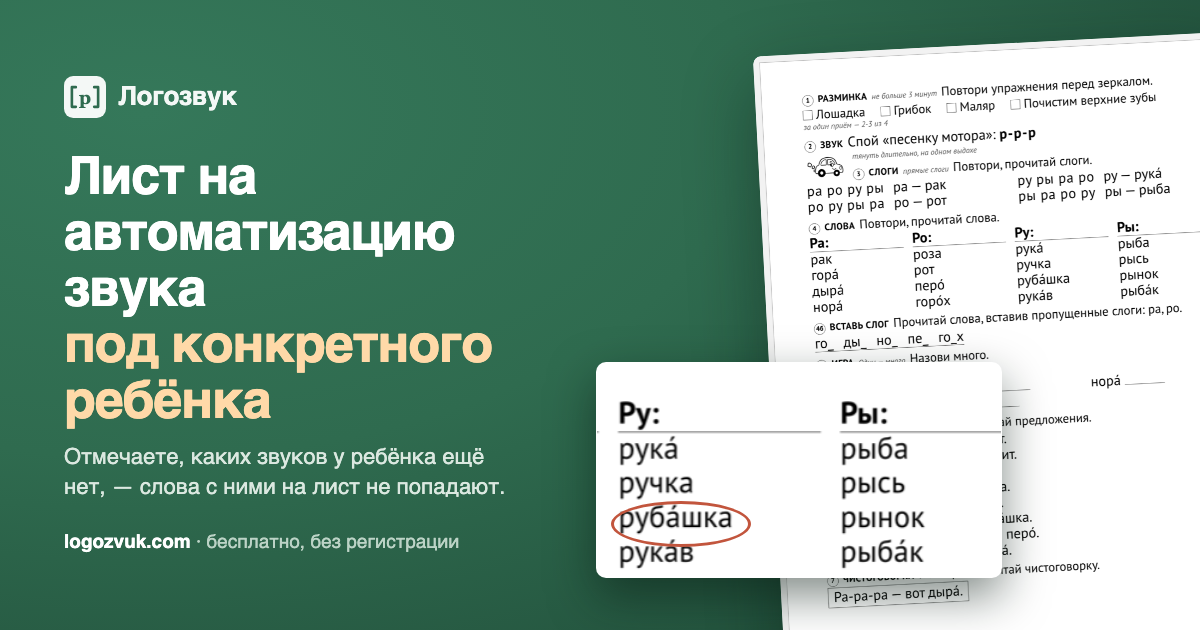
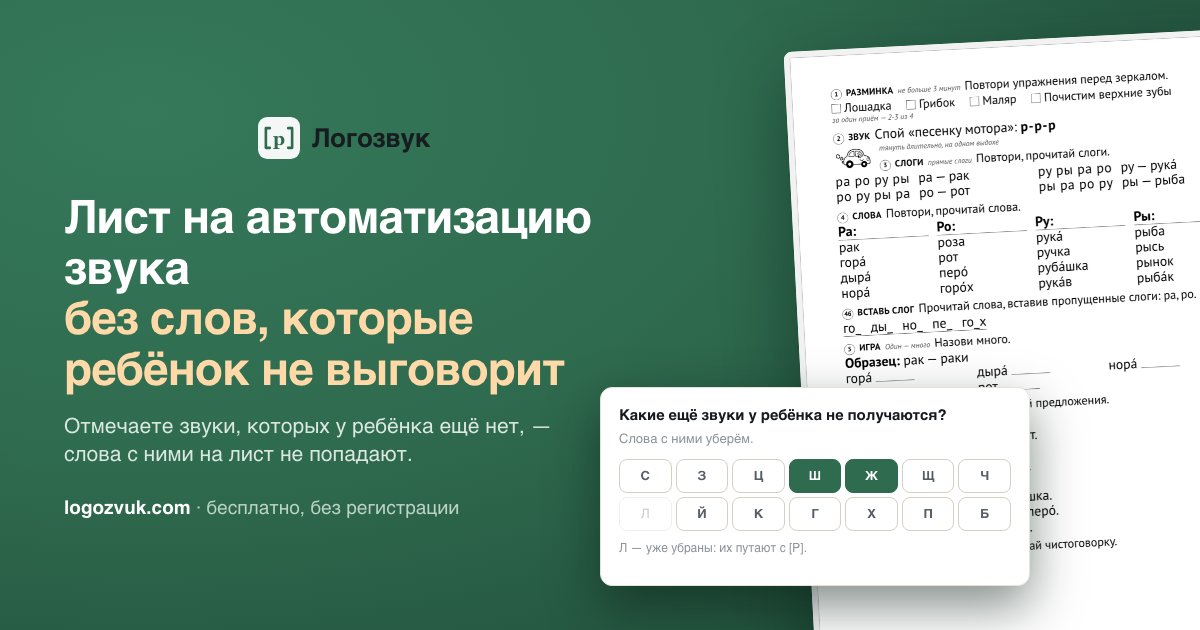
Баннер честнее: во врезке настоящая панель выбора звуков
Две правки по разбору автора.

Врезка была артефактом кадрирования: на листе четыре колонки слов, а я обрезал
до двух — вышла табличка, которой на бумаге не существует, «этого логопед
никогда не увидит». Теперь во врезке тот самый экран, который логопед и
нажимает: вопрос «Какие ещё звуки у ребёнка не получаются?», отмеченные [Ш] и
[Ж], погашенный [Л] с объяснением. Разметка и стили взяты из виджета (в баннер
подключён его же app.css), поэтому врезка не может разойтись с экраном.

Слоган «под конкретного ребёнка» обещал больше, чем инструмент делает: звучит
как персонализация вообще, а на деле это выбор звуков. Стало «без слов, которые
ребёнок не выговорит» плюс строка о том, что именно происходит.

diff --git a/research/site/anons/og-banner.html b/research/site/anons/og-banner.html
@@ -1,31 +1,33 @@
 <!doctype html><meta charset="utf-8">
+<link rel="stylesheet" href="/Users/igor/PycharmProjects/logoped-generator/web/app.css">
 <style>
-  body{margin:0;width:1200px;height:630px;overflow:hidden;position:relative;
-       background:radial-gradient(120% 130% at 12% 18%, #35785a 0%, #2f6b4f 42%, #1d4634 100%);
-       font:16px/1.4 -apple-system,"Segoe UI",Roboto,sans-serif;color:#fff}
-  .left{position:absolute;left:64px;top:0;bottom:0;width:520px;display:flex;flex-direction:column;justify-content:center}
-  .brand{display:flex;align-items:center;gap:12px;margin-bottom:30px;opacity:.95}
+  html,body{margin:0;width:1200px;height:630px;overflow:hidden}
+  body{position:relative;font:16px/1.4 -apple-system,"Segoe UI",Roboto,sans-serif;color:#fff;
+       background:radial-gradient(120% 130% at 12% 18%, #35785a 0%, #2f6b4f 42%, #1d4634 100%)}
+  .left{position:absolute;left:64px;top:0;bottom:0;width:560px;display:flex;flex-direction:column;justify-content:center}
+  .brand{display:flex;align-items:center;gap:12px;margin-bottom:28px;opacity:.95}
   .brand span{font-weight:700;font-size:26px;letter-spacing:-.01em}
-  h1{font-size:52px;line-height:1.08;margin:0 0 14px;letter-spacing:-.02em;font-weight:800}
+  h1{font-size:46px;line-height:1.1;margin:0 0 16px;letter-spacing:-.02em;font-weight:800}
   h1 em{display:block;font-style:normal;color:#ffd9a8}
-  p{font-size:22px;line-height:1.35;margin:0 0 26px;color:#dbe8e0;max-width:460px}
+  .sub{font-size:21px;line-height:1.35;margin:0 0 26px;color:#dbe8e0;max-width:490px}
   .foot{font-size:19px;color:#bcd3c6}
   .foot b{color:#fff}
 
-  /* лист — настоящий снимок, с тенью и лёгким наклоном */
-  .paper{position:absolute;right:-40px;top:44px;width:470px;height:664px;background:#fff;
+  .paper{position:absolute;right:-52px;top:40px;width:452px;height:640px;background:#fff;
          border-radius:8px;overflow:hidden;transform:rotate(-3deg);
          box-shadow:0 26px 70px rgba(8,25,18,.42)}
-  .paper img{position:absolute;left:0;top:0;width:470px}
+  .paper img{position:absolute;left:0;top:0;width:452px}
 
-  /* вырезка: увеличенный кусок того же листа с обведённым словом */
-  /* вырезка: колонка «Ру» того же листа, крупно, с обведённым словом */
-  .zoom{position:absolute;left:596px;bottom:52px;width:404px;height:214px;background:#fff;
-        border-radius:10px;overflow:hidden;box-shadow:0 18px 46px rgba(8,25,18,.5);
-        border:1px solid rgba(255,255,255,.55)}
-  .zoom img{position:absolute;width:1017px;left:-524px;top:-360px}
-  .ring{position:absolute;border:3px solid #c2553d;border-radius:50%;
-        left:14px;top:138px;width:134px;height:40px}
+  /* врезка — НАСТОЯЩИЙ элемент экрана: выбор звуков, которых у ребёнка нет.
+     Разметка и стили те же, что в виджете (подключён его app.css). */
+  .card{position:absolute;left:600px;bottom:44px;width:430px;background:#fff;
+        border-radius:12px;padding:16px 18px 18px;color:var(--ink);
+        box-shadow:0 20px 50px rgba(8,25,18,.5)}
+  .card h2{font-size:15px;margin:0 0 4px}
+  .card .hint{margin:0 0 10px;font-size:13px;color:var(--ink-3)}
+  .card .chips{grid-template-columns:repeat(7,1fr);gap:4px}
+  .card .chip{padding:7px 0;font-size:13px}
+  .card .chips-note{margin-top:8px !important}
 </style>
 
 <div class="left">
@@ -37,13 +39,23 @@
     </svg>
     <span>Логозвук</span>
   </div>
-  <h1>Лист на автоматизацию звука<em>под конкретного ребёнка</em></h1>
-  <p>Отмечаете, каких звуков у ребёнка ещё нет, — слова с ними на лист не попадают.</p>
+  <h1>Лист на автоматизацию звука<em>без слов, которые ребёнок не выговорит</em></h1>
+  <p class="sub">Отмечаете звуки, которых у ребёнка ещё нет, — слова с ними на лист не попадают.</p>
   <div class="foot"><b>logozvuk.com</b> · бесплатно, без регистрации</div>
 </div>
 
 <div class="paper"><img src="/Users/igor/PycharmProjects/logoped-generator/web/img/list-r.png"></div>
-<div class="zoom">
-  <img src="/Users/igor/PycharmProjects/logoped-generator/web/img/list-r.png">
-  <span class="ring"></span>
+
+<div class="card">
+  <h2>Какие ещё звуки у ребёнка не получаются?</h2>
+  <p class="hint">Слова с ними уберём.</p>
+  <div class="chips">
+    <button class="chip">С</button><button class="chip">З</button><button class="chip">Ц</button>
+    <button class="chip is-on">Ш</button><button class="chip is-on">Ж</button>
+    <button class="chip">Щ</button><button class="chip">Ч</button>
+    <button class="chip" disabled>Л</button><button class="chip">Й</button><button class="chip">К</button>
+    <button class="chip">Г</button><button class="chip">Х</button><button class="chip">П</button>
+    <button class="chip">Б</button>
+  </div>
+  <p class="hint chips-note">Л — уже убраны: их путают с [Р].</p>
 </div>
